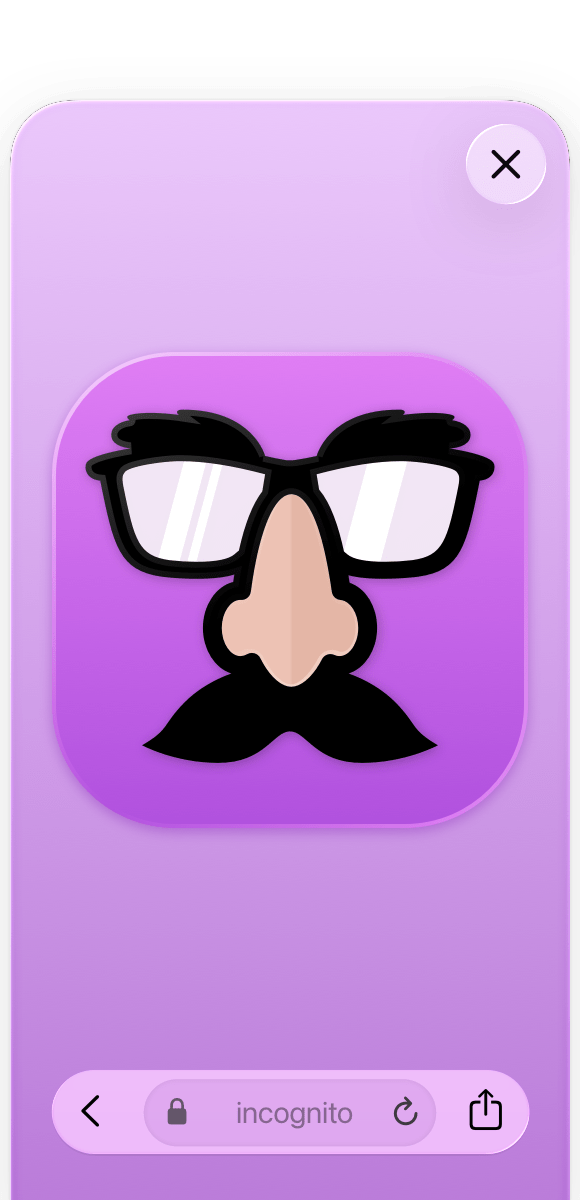
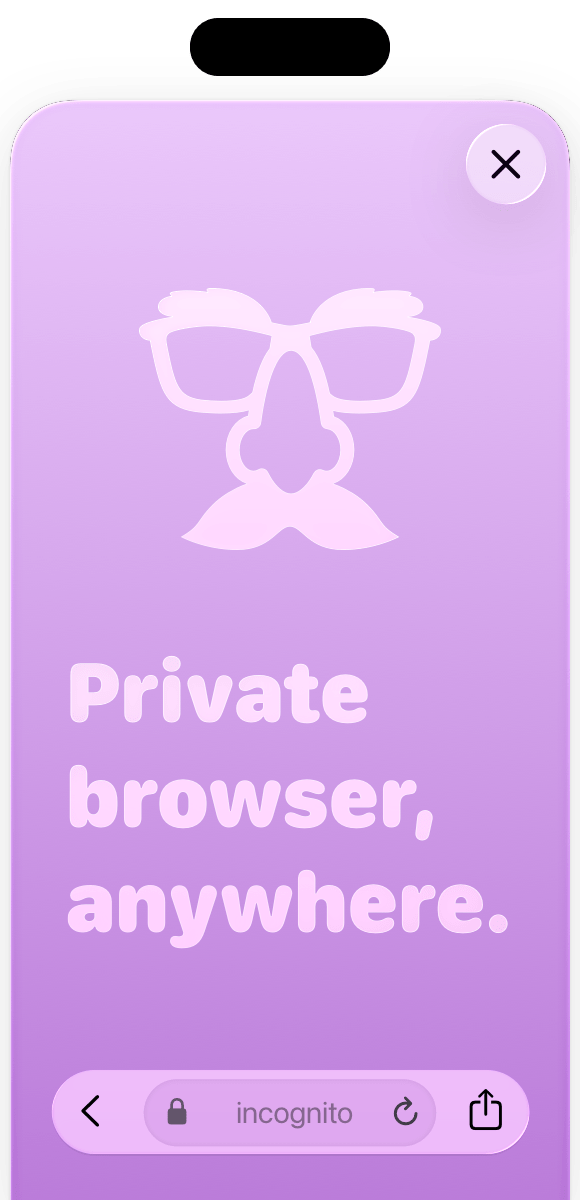
more content

diff --git a/incognito/index.html b/incognito/index.html
@@ -19,10 +19,10 @@
     <meta content="Escape the watchful eyes of in-app browsers and cookie-filled websites: download Incognito and pop-up a private browser inside any iOS app." name="twitter:description">
     <meta content="https://overdesigned.net/incognito/press/banner.png" name="twitter:image">
     <link href="incognito.css" rel="stylesheet">
+    <link crossorigin="anonymous" href="https://kit.fontawesome.com/f2bb7e8aa2.css" rel="stylesheet">
     <script>
       document.documentElement.dataset.bsTheme=matchMedia('(prefers-color-scheme:dark)').matches?'dark':'light';
     </script>
-    <link crossorigin="anonymous" href="https://kit.fontawesome.com/1c498ede56.css" rel="stylesheet">
     <script type="application/ld+json">
       {
         "@context": "https://schema.org",
@@ -225,7 +225,7 @@
   <body>
     <div class="container-xl">
       <header>
-        <div class="row align-items-center">
+        <div class="row align-items-center text-center">
           <div class="col-sm-5 mx-auto">
             <div class="phone float-sm-end mb-sm-0 mb-5">
               <div>
@@ -246,23 +246,17 @@
             </p>
           </div>
         </div>
-        <div class="row align-items-center d-none">
-          <div class="col-sm-5"></div>
-          <div class="col-sm-7 text-sm-left">
-            <a href="https://itunes.apple.com/app/id1490656387"><img alt="Download on the App Store" src="Download_on_the_App_Store_Badge_US-UK_RGB_blk_092917.svg"></a>
-          </div>
-        </div>
       </header>
       <section class="themed">
         <div class="row align-items-top text-center">
           <div class="col-sm-4 mb-3 mb-sm-0">
-            <span class="fa-stack"><span class="fa-solid fa-circle fa-stack-2x"></span><span class="fa-regular fa-stack-2x fa-face-disguise fa-duotone"></span></span>
+            <span class="fa-stack"><span class="fa-solid fa-circle fa-stack-2x"></span><span class="fa-solid fa-stack-2x fa-face-disguise fa-duotone"></span></span>
             <p class="strong">
               Incognito helps you avoid the spying eyes of in&#8209;app&nbsp;browsers.¹
             </p>
           </div>
           <div class="col-sm-4 mb-3 mb-sm-0">
-            <span class="fa-stack"><span class="fa-solid fa-circle fa-stack-2x"></span><span class="fa-solid fa-stack-1x fa-arrow-up-from-bracket"></span></span>
+            <span class="fa-stack"><span class="fa-solid fa-circle fa-stack-2x"></span><span class="fa-solid fa-stack-1x fa-arrow-up-from-square"></span></span>
             <p class="strong">
               Pop‑up a secure browser inside any app, right from the share sheet.
             </p>
@@ -270,7 +264,7 @@
           <div class="col-sm-4">
             <span class="fa-stack"><span class="fa-solid fa-circle fa-stack-2x"></span><span class="fa-solid fa-stack-1x fa-cookie-bite"></span></span>
             <p class="strong">
-              Reset cookie paywalls and block trackers.
+              Reset cookie paywalls and&nbsp;block&nbsp;trackers.
             </p>
           </div>
           <div class="col-12 text-center small mt-3 mh-5">
@@ -279,21 +273,88 @@
           </div>
         </div>
       </section>
-      <div class="row align-items-center my-5">
+      <div class="row align-items-center text-center my-5">
         <div class="col-sm-5 mx-auto">
           <div class="phone float-sm-end mb-sm-0 mb-5">
             <div>
-              <img alt="Screenshot of Incognito browser popped-up inside another app." class="img-fluid" src="intro@2x.png" srcset="intro@1x.png 1x, intro@2x.png 2x">
+              <img alt="Screenshot of Incognito browser with its powerful actions including clearing history, removing AMP, translating text, opening in Firefox, and more." class="img-fluid" src="intro2@2x.png" srcset="intro2@1x.png 1x, intro2@2x.png 2x">
             </div>
           </div>
         </div>
-        <div class="col-sm-7 text-sm-left">
-          <h3>
-            100% Private
+        <div class="col-sm-7 text-start">
+          <h3 class="text-center">
+            Advanced Features
           </h3>
-          <p>
-            Incognito is simple: pay once, upfront. No subscriptions or in&#8209;app purchase. No bait&#8209;and&#8209;switch.
-          </p>
+          <div class="row g-0 align-items-baseline mb-3">
+            <div class="col-auto me-2">
+              <span class="fa-stack"><span class="fa-solid fa-circle fa-stack-2x"></span><span class="fa-solid fa-stack-1x fa-screwdriver-wrench"></span></span>
+            </div>
+            <div class="col">
+              <p class="my-0">
+                Pro tools: translate, remove AMP, clear session history.
+              </p>
+            </div>
+          </div>
+          <div class="row g-0 align-items-baseline mb-3">
+            <div class="col-auto me-2">
+              <span class="fa-stack"><span class="fa-solid fa-circle fa-stack-2x"></span><span class="fa-solid fa-stack-1x fa-magnifying-glass"></span></span>
+            </div>
+            <div class="col">
+              <p class="my-0">
+                Choose your search engine: Google, Kagi, Bing, DuckDuckGo, etc.
+              </p>
+            </div>
+          </div>
+          <div class="row g-0 align-items-baseline mb-3">
+            <div class="col-auto me-2">
+              <span class="fa-stack"><span class="fa-solid fa-circle fa-stack-2x"></span><span class="fa-solid fa-stack-1x fa-layer fa-duotone"></span></span>
+            </div>
+            <div class="col">
+              <p class="my-0">
+                Automate with Shortcuts.
+              </p>
+            </div>
+          </div>
+          <div class="row g-0 align-items-baseline mb-3">
+            <div class="col-auto me-2">
+              <span class="fa-stack"><span class="fa-solid fa-circle fa-stack-2x"></span><span class="fa-solid fa-stack-1x fa-lock fa-regular"></span></span>
+            </div>
+            <div class="col">
+              <p class="my-0">
+                Passcode-lock your history and bookmarks.
+              </p>
+            </div>
+          </div>
+          <div class="row g-0 align-items-baseline mb-3">
+            <div class="col-auto me-2">
+              <span class="fa-stack"><span class="fa-solid fa-circle fa-stack-2x"></span><span class="fa-solid fa-stack-1x fa-cloud fa-regular"></span></span>
+            </div>
+            <div class="col">
+              <p class="my-0">
+                Backup bookmarks and history to iCloud — or don’t!
+              </p>
+            </div>
+          </div>
+          <div class="row g-0 align-items-baseline mb-3">
+            <div class="col-auto me-2">
+              <span class="fa-stack"><span class="fa-solid fa-circle fa-stack-2x"></span><span class="fa-solid fa-stack-1x fa-share-nodes fa-regular"></span></span>
+            </div>
+            <div class="col">
+              <p class="my-0">
+                Reopen a page with archive.is.
+              </p>
+            </div>
+          </div>
+          <div class="row g-0 align-items-baseline mb-3">
+            <div class="col-auto me-2">
+              <span class="fa-stack"><span class="fa-solid fa-circle fa-stack-2x"></span><span class="fa-solid fa-stack-1x fa-up-right-and-down-left-from-center"></span></span>
+            </div>
+            <div class="col">
+              <p class="my-0">
+                Fullscreen browsing.
+              </p>
+            </div>
+          </div>
         </div>
       </div>
       <section class="themed">
@@ -339,7 +400,7 @@
           </div>
         </div>
       </section>
-      <section class="themed">
+      <section class="themed d-none">
         <div class="row align-items-end text-center">
           <div class="col-sm-4 mb-4">
             <h4 class="mb-3">
@@ -361,7 +422,7 @@
           </div>
         </div>
       </section>
-      <section>
+      <section class="d-none">
         <div class="row">
           <div class="col-lg-9 mx-auto">
             <div class="row">

diff --git a/incognito/incognito.css b/incognito/incognito.css
@@ -9363,7 +9363,7 @@ h4, .h4 {
 .fa-solid.fa-circle.fa-stack-2x {
   color: #e9ecef; }
 
-.fa-duotone {
+.fa-duotone.fa-face-disguise {
   --fa-secondary-opacity: 0; }
 
 [data-bs-theme="dark"] .fa-solid.fa-circle.fa-stack-2x {

diff --git a/incognito/incognito.scss b/incognito/incognito.scss
@@ -149,7 +149,7 @@ h4 {
 	color: $gray-200;
 }
 
-.fa-duotone {
+.fa-duotone.fa-face-disguise {
 	--fa-secondary-opacity: 0;
 }
 
@@ -177,6 +177,7 @@ h4 {
 		}
 	}
 }
+
 
 .small {
 	font-size: 0.8em;
